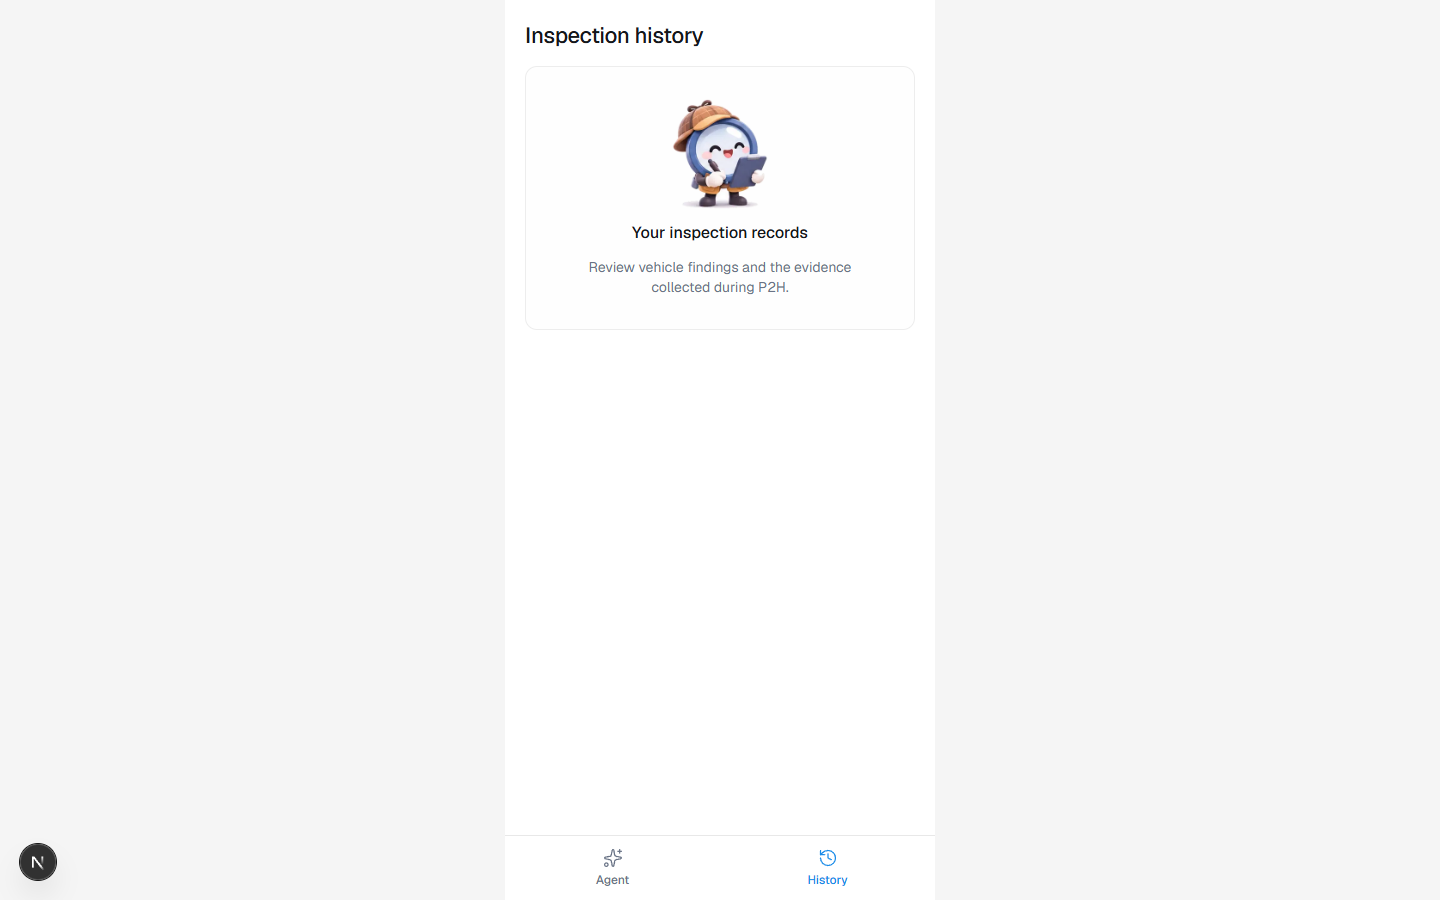
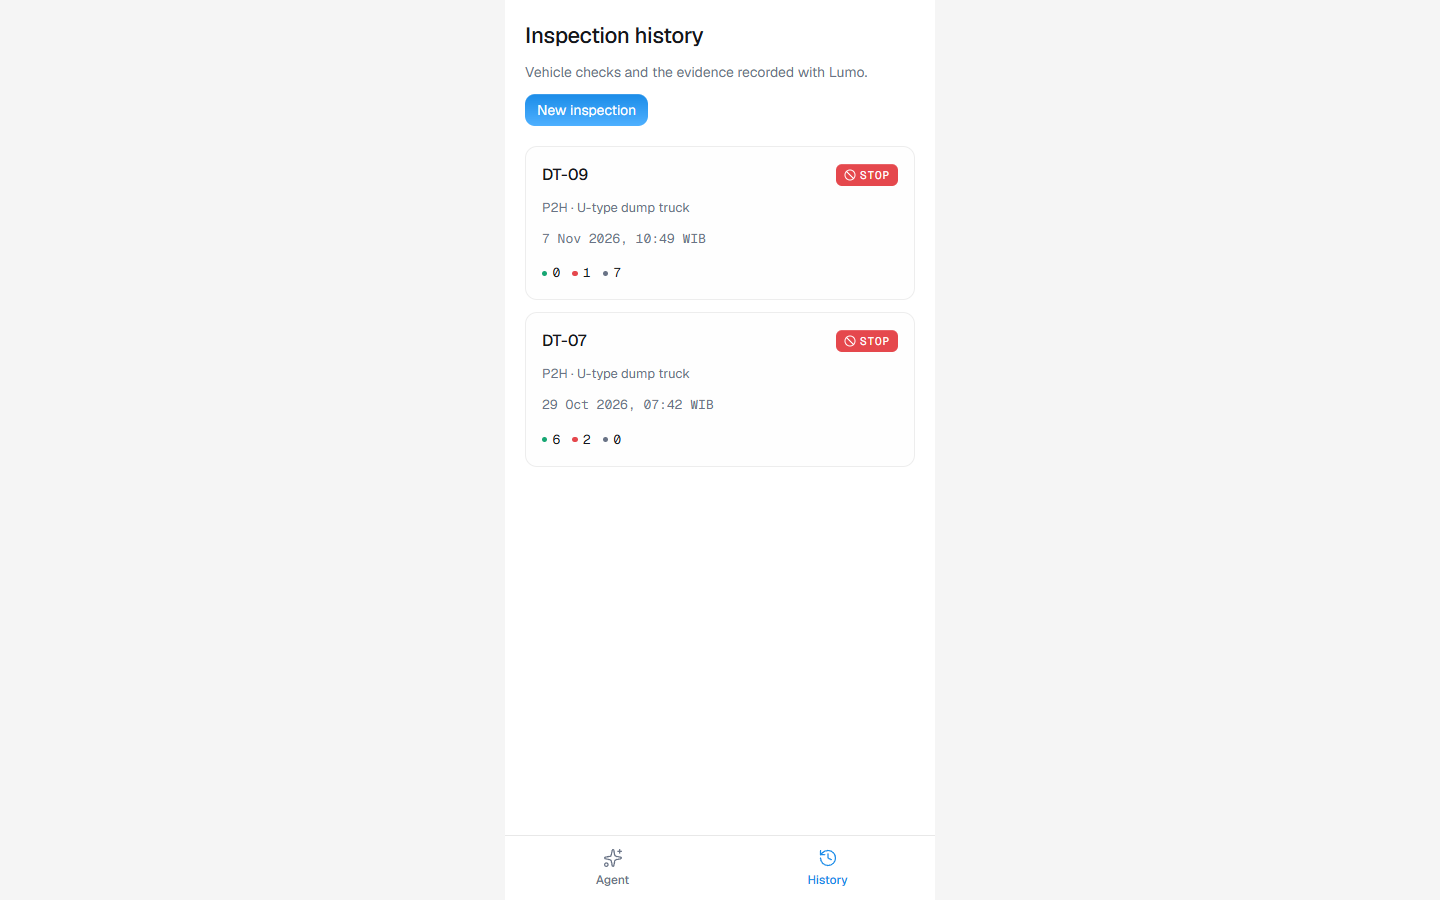
P0-10: mobile inspection chat, camera evidence and draft resume

diff --git a/pramana/components/inspector/InspectorChat.tsx b/pramana/components/inspector/InspectorChat.tsx
@@ -1,0 +1,81 @@
+"use client";
+import { useEffect, useRef, useState } from "react";
+import Link from "next/link";
+import { useRouter, useSearchParams } from "next/navigation";
+import { useMutation, useQuery, useQueryClient } from "@tanstack/react-query";
+import { ArrowLeft, Camera, ChevronDown, ChevronUp, Plus, RotateCcw, Send, X } from "lucide-react";
+import { api, compressImage, fmtDate, postJson, postTurn } from "@/lib/client";
+import { counts, itemsOf, nextItem, progress, unitCode, verdict, type ReportView } from "@/lib/rules";
+import type { ChatMessage, StatusItem, TurnResponse } from "@/lib/contracts";
+import { ChatPill, ErrorState, MascotAvatar, MascotHero, ProgressSegments, ResultPills, Spinner, TypingBubble } from "@/components/ui";
+import { VehicleModel } from "@/components/vehicle-model/VehicleModel";
+const draftKey = 'pramana.inspection-draft';
+const iconButton = 'btn btn-secondary w-11 h-11 p-0 shrink-0';
+export function InspectorChat() {
+  const search = useSearchParams(), router = useRouter(), booted = useRef(false);
+  const [id, setId] = useState<string | null>(null), [error, setError] = useState<Error | null>(null);
+  async function create() {
+    setError(null);
+    try { const report = await postJson<ReportView>('/api/laporan', {}); try { localStorage.setItem(draftKey, report.id); } catch {} setId(report.id); router.replace(`/petugas?laporan=${report.id}`); }
+    catch (e) { setError(e as Error); }
+  }
+  useEffect(() => {
+    if (booted.current) return; booted.current = true;
+    let saved: string | null = null; try { saved = localStorage.getItem(draftKey); } catch {}
+    const selected = search.get('laporan') || saved;
+    if (search.get('baru') === '1' || !selected) void create(); else { setId(selected); try { localStorage.setItem(draftKey, selected); } catch {} }
+  });
+  if (error) return <div className="p-5"><ErrorState error={error}><button className="btn btn-secondary" onClick={() => void create()}>Try again</button></ErrorState></div>;
+  return id ? <Conversation key={id} id={id} create={create}/> : <div className="p-5"><Spinner label="Opening your inspection…"/></div>;
+}
+function Conversation({ id, create }: { id: string; create: () => Promise<void> }) {
+  const cache = useQueryClient(), end = useRef<HTMLDivElement>(null), input = useRef<HTMLInputElement>(null);
+  const [text, setText] = useState(''), [photo, setPhoto] = useState<File>(), [photoUrl, setPhotoUrl] = useState(''), [preparing, setPreparing] = useState(false), [photoError, setPhotoError] = useState<string | null>(null);
+  const [showModel, setShowModel] = useState(true), [status, setStatus] = useState(''), [optimistic, setOptimistic] = useState<ChatMessage[]>([]);
+  const query = useQuery({ queryKey: ['laporan', id], queryFn: () => api<ReportView>(`/api/laporan/${encodeURIComponent(id)}`) });
+  const report = query.data;
+  const turn = useMutation({ mutationFn: async ({ text, photo }: { text: string; photo?: File }) => {
+    const body = new FormData(); body.set('text', text); if (photo) body.set('file', photo);
+    return postTurn<TurnResponse<ReportView>>(`/api/laporan/${id}/turn`, body, setStatus);
+  }, onMutate: ({ text }) => { setOptimistic([{ id: 'pending', role: 'user', text: text || 'Photo attached', created_at: new Date().toISOString() }]); setStatus('Lumo is reading…'); }, onSuccess: reply => {
+    cache.setQueryData(['laporan', id], reply.data); setText(''); setPhoto(undefined); if (input.current) input.current.value = '';
+  }, onSettled: () => { setOptimistic([]); void cache.invalidateQueries({ queryKey: ['laporan', id] }); } });
+  useEffect(() => { if (!photo) { setPhotoUrl(''); return; } const url = URL.createObjectURL(photo); setPhotoUrl(url); return () => URL.revokeObjectURL(url); }, [photo]);
+  useEffect(() => { end.current?.scrollIntoView({ block: 'end', behavior: 'instant' }); }, [report?.messages.length, turn.isPending]);
+  async function choosePhoto(file?: File) {
+    if (!file) return; setPreparing(true); setPhotoError(null);
+    try { if (!file.type.startsWith('image/')) throw new Error('Choose a photo.'); setPhoto(await compressImage(file)); }
+    catch (error) { setPhotoError(error instanceof Error ? error.message : 'The photo could not be prepared.'); }
+    finally { setPreparing(false); }
+  }
+  function send(value = text) { if ((!value.trim() && !photo) || turn.isPending || preparing) return; turn.mutate({ text: value.trim(), photo }); }
+  async function startNew() { if (report?.status === 'berjalan' && Object.keys(report.hasil).length && !window.confirm('Start a new inspection? Your current draft will stay saved, but this device will resume the new one.')) return; await create(); }
+  if (query.isLoading) return <div className="p-5"><Spinner/></div>;
+  if (query.error || !report) return <div className="p-5"><ErrorState error={query.error || 'Inspection not found.'}><button className="btn btn-secondary" onClick={() => void create()}>Start a new inspection</button></ErrorState></div>;
+  const items = itemsOf(report), active = nextItem(report), done = progress(report), last = report.messages.filter(m => m.role === 'pramana').at(-1);
+  const statuses = Object.fromEntries(items.filter(i => i.comp_id && report.hasil[i.id]).map(i => [i.comp_id!, report.hasil[i.id].status])) as Record<string, StatusItem>;
+  return <div className="h-dvh flex flex-col overflow-hidden">
+    <header className="shrink-0 sticky top-0 z-10 px-4 pt-3 pb-2 bg-[var(--color-surface)] border-b border-[var(--color-line)]">
+      <div className="flex items-center gap-2"><Link href="/petugas/riwayat" aria-label="Back to inspection history" className={iconButton}><ArrowLeft size={18}/></Link><div className="flex-1 min-w-0"><h1 className="t-heading truncate">{report.unit ? unitCode(report.unit) : 'New P2H'}</h1><p className="t-caption-data muted truncate">{report.unit?.split('·')[1]?.trim() || 'Daily vehicle inspection'}</p></div><button className={iconButton} aria-label="New inspection" disabled={turn.isPending} onClick={() => void startNew()}><Plus size={18}/></button><button className={iconButton} aria-label="Restart inspection" disabled={turn.isPending} onClick={() => void startNew()}><RotateCcw size={16}/></button></div>
+      {!!items.length && <div className="mt-3 space-y-2"><ProgressSegments items={items.map(i => report.hasil[i.id]?.status || null)} active={items.findIndex(i => i.id === active?.id)}/><p className="t-caption-data muted truncate">{done.done}/{done.total} recorded{active ? ` · ${active.nama}` : report.status === 'terkirim' ? ' · Submitted' : ' · Ready to submit'}</p></div>}
+    </header>
+    {report.status === 'terkirim' ? <div className="flex-1 overflow-y-auto p-5 flex flex-col items-center text-center gap-4 py-10"><MascotHero pose={counts(report).stop ? 'mencatat' : 'jempol'} size={112}/><h2 className="t-heading">Inspection submitted</h2><p className={`t-body-lg ${counts(report).stop ? 'text-[var(--color-status-tidak-baik)]' : ''}`}>{verdict(report)}</p><ResultPills counts={counts(report)}/><p className="t-body muted">{report.ringkasan}</p><Link href={`/petugas/riwayat/${report.id}`} className="btn btn-primary">View report</Link><Link href="/petugas/riwayat" className="btn btn-secondary">Inspection history</Link></div> : <>
+      {report.rencana_snapshot?.model_id && <div className="shrink-0 border-b border-[var(--color-line)]"><button className="t-body-sm muted w-full flex items-center justify-between px-4 py-2" aria-expanded={showModel} onClick={() => setShowModel(!showModel)}>Vehicle model{showModel ? <ChevronUp size={16}/> : <ChevronDown size={16}/>}</button>{showModel && <VehicleModel className="h-44 px-4 pb-2" modelId={report.rencana_snapshot.model_id} focus={active?.comp_id} statuses={statuses} tiltControl={false}/>}</div>}
+      <div className="flex-1 min-h-0 overflow-y-auto p-4 space-y-4" role="log" aria-label="Inspection conversation" aria-live="polite">
+        <div className="flex flex-col items-center gap-1 pb-3"><MascotHero pose="menyapa" size={96}/><h2 className="t-heading">Lumo</h2><p className="t-body-sm muted">Your P2H companion · {fmtDate(report.started_at)}</p></div>
+        {[...report.messages, ...optimistic].map(message => <div key={message.id} className={`flex gap-2 ${message.role === 'user' ? 'justify-end' : ''}`}>
+          {message.role === 'pramana' && <MascotAvatar size={28} mood={message.mood}/>}
+          <div className="min-w-0 max-w-[88%] space-y-2"><div className={`p-3 t-body-lg whitespace-pre-wrap break-words ${message.role === 'user' ? 'bubble-petugas' : 'bubble-pramana'}`}>{message.text}{message.files?.map(file => <a key={file.id} href={`/api/files/${file.id}`} target="_blank" rel="noreferrer" className="block mt-2"><img src={`/api/files/${file.id}`} alt={file.caption || 'Inspection photo'} className="rounded-lg max-h-48 w-full object-cover" onLoad={() => end.current?.scrollIntoView({ block: 'end' })}/></a>)}</div>{!!message.pills?.length && <div className="flex flex-wrap gap-1.5">{message.pills.map((pill, i) => <ChatPill key={i} pill={pill}/>)}</div>}</div>
+        </div>)}
+        {turn.isPending && <TypingBubble label={status}/>}<div ref={end}/>
+      </div>
+      <div className="shrink-0 p-3 border-t border-[var(--color-line)] bg-[var(--color-surface)] pb-[max(12px,env(safe-area-inset-bottom))]">
+        {(turn.error || photoError) && <div className="mb-2 max-h-28 overflow-y-auto"><ErrorState error={photoError || turn.error!}/></div>}
+        {!turn.isPending && !!last?.quick_replies?.length && <div className="flex gap-2 overflow-x-auto pb-3">{last.quick_replies.map(reply => <button key={reply} className="btn btn-secondary-field t-body-sm shrink-0 max-w-64 truncate" onClick={() => send(reply)} disabled={preparing}>{reply}</button>)}</div>}
+        {photo && photoUrl && <div className="mb-2 flex items-center gap-2"><img src={photoUrl} alt="Photo ready to send" className="h-12 w-12 shrink-0 rounded object-cover"/><span className="t-caption-data muted flex-1">Photo ready · {Math.ceil(photo.size / 1024)} KB</span><button className={iconButton} aria-label="Remove photo" disabled={turn.isPending} onClick={() => { setPhoto(undefined); if (input.current) input.current.value = ''; }}><X size={16}/></button></div>}
+        {preparing && <Spinner label="Preparing photo…"/>}
+        <form className="flex gap-2 items-end" onSubmit={e => { e.preventDefault(); send(); }}><input ref={input} type="file" accept="image/*" capture="environment" aria-label="Take an inspection photo" className="sr-only" disabled={turn.isPending || preparing} onChange={e => void choosePhoto(e.target.files?.[0])}/><button type="button" className={`${iconButton} !w-12 !h-12`} aria-label="Take a photo" disabled={turn.isPending || preparing} onClick={() => input.current?.click()}><Camera size={21}/></button><textarea rows={1} className="input t-body-lg min-w-0 flex-1 resize-none min-h-12 max-h-28" aria-label="Message Lumo" placeholder="Tell Lumo what you found…" value={text} disabled={turn.isPending || preparing} onChange={e => setText(e.target.value)} onKeyDown={e => { if (e.key === 'Enter' && !e.shiftKey && !e.nativeEvent.isComposing) { e.preventDefault(); send(); } }}/><button className="btn btn-primary w-12 h-12 p-0 shrink-0" aria-label="Send message" disabled={turn.isPending || preparing || (!text.trim() && !photo)}><Send size={18}/></button></form>
+      </div>
+    </>}
+  </div>;
+}

diff --git a/pramana/components/laporan/LaporanDetail.tsx b/pramana/components/laporan/LaporanDetail.tsx
@@ -1,0 +1,34 @@
+"use client";
+import { useState } from "react";
+import { useQuery } from "@tanstack/react-query";
+import { api, fmtDateTime } from "@/lib/client";
+import { counts, itemsOf, verdict, type ReportView } from "@/lib/rules";
+import type { StatusItem } from "@/lib/contracts";
+import { ErrorState, Legend, ResultPills, Spinner, StatusPill, StopPill } from "@/components/ui";
+import { VehicleModel } from "@/components/vehicle-model/VehicleModel";
+function EvidencePhoto({ id }: { id: string }) {
+  const meta = useQuery({ queryKey: ['file', id], queryFn: () => api<{ caption: string | null; name: string }>(`/api/files/${id}/meta`) });
+  return <figure className="min-w-0"><a href={`/api/files/${id}`} target="_blank" rel="noreferrer"><img src={`/api/files/${id}`} alt={meta.data?.caption || 'Inspection evidence'} className="w-full aspect-[4/3] object-cover rounded-lg border border-[var(--color-line)]" loading="lazy"/></a><figcaption className="t-caption-data muted mt-1 break-words">{meta.data?.caption || meta.data?.name || 'Inspection photo'}</figcaption></figure>;
+}
+export function VerdictStrip({ report }: { report: ReportView }) { const c = counts(report); return <div className={`panel p-4 flex flex-wrap gap-3 items-center ${c.stop ? '!border-[var(--color-stop-border)] !bg-[var(--color-status-tidak-baik-subtle)]' : ''}`}>{!!c.stop && <><StopPill/><span className="t-body text-[var(--color-status-tidak-baik)]">{c.stop} finding{c.stop > 1 ? 's' : ''} require the unit to stay out of service.</span></>}<ResultPills counts={c}/></div>; }
+export function LaporanDetail({ id, stacked = false }: { id: string; stacked?: boolean }) {
+  const query = useQuery({ queryKey: ['laporan', id], queryFn: () => api<ReportView>(`/api/laporan/${id}`) });
+  const [selected, setSelected] = useState<string | null>(null);
+  if (query.isLoading) return <Spinner label="Loading inspection report…"/>;
+  if (query.error || !query.data) return <ErrorState error={query.error || 'Report not found.'}/>;
+  const report = query.data, items = itemsOf(report), c = counts(report);
+  const findings = [...items].sort((a, b) => Number(!!report.hasil[b.id]?.stop) - Number(!!report.hasil[a.id]?.stop) || Number(report.hasil[b.id]?.status === 'tidak_baik') - Number(report.hasil[a.id]?.status === 'tidak_baik') || a.urutan - b.urutan);
+  const statuses = Object.fromEntries(items.filter(i => i.comp_id && report.hasil[i.id]).map(i => [i.comp_id!, report.hasil[i.id].status])) as Record<string, StatusItem>;
+  function pick(comp: string) { const item = items.find(i => i.comp_id === comp); if (item) { setSelected(item.id); document.getElementById(`finding-${item.id}`)?.scrollIntoView({ block: 'nearest', behavior: 'smooth' }); } }
+  return <div className="space-y-5 @container">
+    <header className="space-y-3"><h1 className={`t-display ${c.stop ? 'text-[var(--color-status-tidak-baik)]' : ''}`}>{verdict(report)}</h1><div className="t-body-sm muted flex flex-wrap gap-x-4 gap-y-1"><span>{report.unit}</span><span>Inspector: {report.petugas}</span><span>{fmtDateTime(report.submitted_at || report.started_at)} WIB</span><span>{report.rencana_snapshot?.judul}</span></div></header>
+    <VerdictStrip report={report}/>
+    <div className={`grid gap-5 ${stacked ? '' : '@4xl:grid-cols-[minmax(0,1fr)_420px]'}`}>
+      <section className="min-w-0"><div className="panel p-3"><VehicleModel modelId={report.rencana_snapshot?.model_id || null} statuses={statuses} focus={items.find(i => i.id === selected)?.comp_id} onPick={pick} className={stacked ? 'h-56' : 'h-[min(60vh,580px)]'} tiltControl={!stacked}/></div><div className="mt-3"><Legend/></div></section>
+      <section className="space-y-3 min-w-0" aria-label="Inspection findings"><h2 className="t-heading">Findings by item</h2>{findings.map(item => {
+        const finding = report.hasil[item.id]; if (!finding) return null;
+        return <article id={`finding-${item.id}`} key={item.id} className={`panel p-4 space-y-3 scroll-mt-4 ${selected === item.id ? '!border-[var(--color-primary)]' : ''}`}><button className="w-full text-left flex items-start justify-between gap-2" onClick={() => setSelected(selected === item.id ? null : item.id)}><h3 className="t-heading">{item.nama}</h3>{finding.stop && <StopPill/>}</button><StatusPill status={finding.status}/><p className="t-body">{finding.catatan}</p>{finding.alasan && <p className="t-body-sm muted">Reason: {finding.alasan}</p>}<div className="grid grid-cols-2 gap-2">{finding.bukti_ids.map(fileId => <EvidencePhoto id={fileId} key={fileId}/>)}</div>{finding.ditangani && <span className="pill pill-baik t-label">Handled</span>}</article>;
+      })}</section>
+    </div>
+  </div>;
+}

diff --git a/pramana/app/petugas/riwayat/page.tsx b/pramana/app/petugas/riwayat/page.tsx
@@ -1,3 +1,10 @@
 "use client";
-import { EmptyState } from "@/components/ui";
-export default function Page() { return <div className="p-5 space-y-4"><h1 className="t-display">Inspection history</h1><EmptyState title="Your inspection records" pose="mencatat">Review vehicle findings and the evidence collected during P2H.</EmptyState></div>; }
+import Link from "next/link";
+import { useQuery } from "@tanstack/react-query";
+import { api, fmtDateTime } from "@/lib/client";
+import { counts, unitCode, type ReportView } from "@/lib/rules";
+import { EmptyState, ErrorState, ResultPills, Spinner, StopPill } from "@/components/ui";
+export default function Page() {
+  const query = useQuery({ queryKey: ['laporan', 'submitted'], queryFn: () => api<ReportView[]>('/api/laporan?status=terkirim') });
+  return <div className="p-5 space-y-5"><header className="space-y-3"><h1 className="t-display">Inspection history</h1><p className="t-body muted">Vehicle checks and the evidence recorded with Lumo.</p><Link href="/petugas?baru=1" className="btn btn-primary">New inspection</Link></header>{query.isLoading ? <Spinner/> : query.error ? <ErrorState error={query.error}/> : !query.data?.length ? <EmptyState title="No inspections yet">Complete a P2H with Lumo to see it here.</EmptyState> : <div className="space-y-3">{[...query.data].sort((a, b) => (b.submitted_at || '').localeCompare(a.submitted_at || '')).map(report => <Link href={`/petugas/riwayat/${report.id}`} className="panel p-4 block space-y-3 hover:border-[var(--color-primary)]" key={report.id}><div className="flex gap-2 items-center justify-between"><h2 className="t-heading">{unitCode(report.unit)}</h2>{!!counts(report).stop && <StopPill/>}</div><p className="t-body-sm muted">{report.rencana_snapshot?.judul}</p><p className="t-data muted">{fmtDateTime(report.submitted_at!)} WIB</p><ResultPills counts={counts(report)}/></Link>)}</div>}</div>;
+}

diff --git a/pramana/components/ui/index.tsx b/pramana/components/ui/index.tsx
@@ -39,7 +39,7 @@ export function MascotAvatar({mood="netral",size=32}:{mood?:"netral"|"serius";si
 export function MascotHero({pose="menyapa",size=96}:{pose?:Pose;size?:number}) {
   return <div className="lumo-hero shrink-0" style={{width:size*1.15,height:size*1.15}}><Image src={`/lumo/lumo-${pose}.png`} alt={`Lumo ${poseLabel[pose]}`} width={size*2} height={size*2} loading="eager" className="w-full h-full object-contain"/></div>;
 }
-export function TypingBubble({label="Lumo is reading…"}:{label?:string}) {return <div role="status" className="flex items-center gap-2"><MascotAvatar size={28}/><span className="bubble-agent inline-flex items-center gap-1 p-3" aria-hidden="true">{[0,1,2].map(i=><span key={i} className="typing-dot h-1.5 w-1.5 rounded-full"/>)}</span><span className="t-body-sm muted">{label}</span></div>;}
+export function TypingBubble({label="Lumo is reading…"}:{label?:string}) {return <div role="status" className="flex items-center gap-2"><MascotAvatar size={28}/><span className="bubble-pramana inline-flex items-center gap-1 p-3" aria-hidden="true">{[0,1,2].map(i=><span key={i} className="typing-dot h-1.5 w-1.5 rounded-full"/>)}</span><span className="t-body-sm muted">{label}</span></div>;}
 export function SumberBadge({sumber}:{sumber:ItemRencana["sumber"]}) {
   const labels={spec:"Spec sheet",standar:"Standard",form_lama:"Existing form",manual:"Manual"};
   return <span className={`pill t-label pill-sumber-${sumber==="standar"?"standar":"spec"}`}>{labels[sumber]}</span>;

diff --git a/pramana/app/petugas/page.tsx b/pramana/app/petugas/page.tsx
@@ -1,4 +1,5 @@
 "use client";
-import Link from "next/link";
-import { MascotHero } from "@/components/ui";
-export default function Page() { return <div className="p-5 space-y-4"><header className="flex justify-between items-center"><h1 className="t-heading">New P2H</h1><Link href="/petugas/riwayat" className="btn btn-secondary t-body">History</Link></header><div className="flex flex-col items-center py-8 gap-3"><MascotHero pose="menyapa"/><h2 className="t-heading">Lumo</h2><p className="t-body-lg muted text-center">Your P2H companion. Inspect each component and record its evidence.</p></div></div>; }
+import { Suspense } from "react";
+import { Spinner } from "@/components/ui";
+import { InspectorChat } from "@/components/inspector/InspectorChat";
+export default function Page() { return <Suspense fallback={<div className="p-5"><Spinner/></div>}><InspectorChat/></Suspense>; }

diff --git a/pramana/app/petugas/riwayat/[id]/page.tsx b/pramana/app/petugas/riwayat/[id]/page.tsx
@@ -1,0 +1,6 @@
+"use client";
+import Link from "next/link";
+import { useParams } from "next/navigation";
+import { ArrowLeft } from "lucide-react";
+import { LaporanDetail } from "@/components/laporan/LaporanDetail";
+export default function Page() { const { id } = useParams<{ id: string }>(); return <div className="p-5 space-y-5"><Link href="/petugas/riwayat" className="btn btn-secondary t-body"><ArrowLeft size={16}/>History</Link><LaporanDetail id={id} stacked/></div>; }

diff --git a/pramana/next.config.ts b/pramana/next.config.ts
@@ -1,6 +1,7 @@
 import type { NextConfig } from "next";
 
 const nextConfig: NextConfig = {
+  devIndicators: false,
   turbopack: {
     root: process.cwd(),
     rules: { "*.css": { loaders: ["@tailwindcss/turbopack"], as: "*.css" } },

diff --git a/docs/verification/P0.md b/docs/verification/P0.md
@@ -135,7 +135,8 @@ language instructions.
 
 ## Next checkpoint
 
-P0-00 through P0-09 are implemented. Continue with P0-10 through
+P0-00 through P0-10 are implemented; P0-10 physical-device verification is pending.
+Continue with P0-11 through
 P0-13 in order. The dev server for this work is on port 3001 because 3000 was
 already occupied. Docker Desktop's Linux engine was verified available.
 Local OpenAI configuration has passed real model calls and remains ignored by Git.
@@ -156,4 +157,23 @@ Local OpenAI configuration has passed real model calls and remains ignored by Gi
   the next focused item is derived from saved results. See inspector-agent-check.json.
 - TypeScript, production build and design scans passed. This ticket adds APIs;
   the inspector screens are implemented next.
+
+## P0-10
+
+- Mobile inspector chat has a sticky header/progress, collapsible 176px model,
+  component focus/status colors, 16px bubbles/composer, camera capture, quick
+  replies, upload preview, completion state, draft resume and restart confirmation.
+- Submitted history and the shared read-only report detail show findings/photos.
+- Production-browser checks at 390x844 passed with a real agent turn and camera
+  file input: photo compressed to 159,925 bytes, uploaded and persisted. Refresh
+  resumed the same draft/result; cancelling New inspection retained the draft.
+- Initial development CSS cache missed new utilities. Production CSS and captured
+  screenshots were checked; all image dimensions and conversation scrolling are
+  correct. The dev indicator is disabled so it cannot cover the camera button.
+- Screenshots for opening/active/photo/resumed/submitted states and history/detail
+  were reviewed. Geist, 16px chat, no overflow or console errors; design scans,
+  TypeScript and production build passed.
+- Physical phone verification cannot be inferred from mobile emulation. A live
+  HTTPS tunnel returned 200 and its URL was sent to the user for the P0-10 camera
+  check. Keep that checkbox pending until a real-device result is received.
 

diff --git a/docs/tickets/P0-inti.md b/docs/tickets/P0-inti.md
@@ -287,9 +287,9 @@ Baca dulu: `docs/tickets/README.md` (Definition of Done), `docs/PRD.md` §4.1–
 - Riwayat: daftar kartu (unit `.t-heading`, StopPill, rencana `.t-body-sm.muted`, waktu + hitungan `.t-data`), detail read-only memakai `LaporanDetail` bertumpuk.
 
 **Selesai bila**
-- [ ] Di 390×844 tampilan setara `screens/11` dan `12`; teks chat 16 px.
-- [ ] Foto dari kamera HP (via tunnel) terkirim < 300 KB.
-- [ ] Refresh di tengah P2H melanjutkan draft.
+- [x] Di 390×844 layout dan teks chat 16 px diverifikasi; screens/11–12 masih placeholder.
+- [ ] Foto dari kamera HP fisik (via tunnel) terkirim < 300 KB. Browser mobile sudah lulus: 159.925 bytes; verifikasi perangkat diminta dan dicatat untuk P0-12.
+- [x] Refresh di tengah P2H melanjutkan draft.
 
 **Prompt /goal**
 ```
